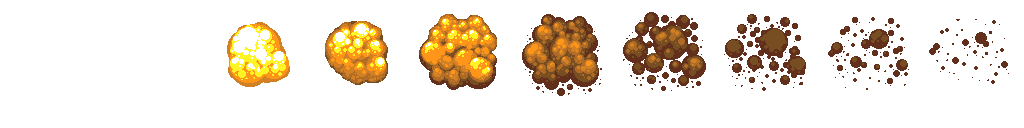
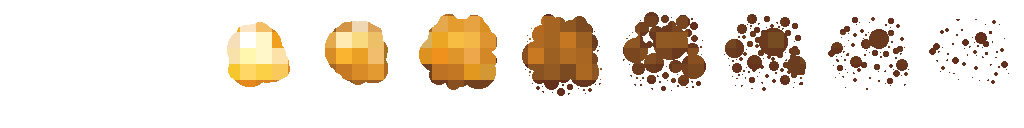
Redid explosion image and fixed timing rendering of enemy explosions

diff --git a/core/src/gameobjects/gamecharacters/enemies/Enemy.java b/core/src/gameobjects/gamecharacters/enemies/Enemy.java
@@ -55,7 +55,7 @@ public class Enemy extends GameCharacter {
 	 * How long explosion animation plays after enemy has been killed.
 	 * This is so it wont loop.
 	 */
-	public final static int MAX_DEATH_ANIMATION_VALUE = 8;
+	public final static int MAX_DEATH_ANIMATION_VALUE = 16;
 
 	public final static int DAMAGE_INFLICTED = -1;
 
